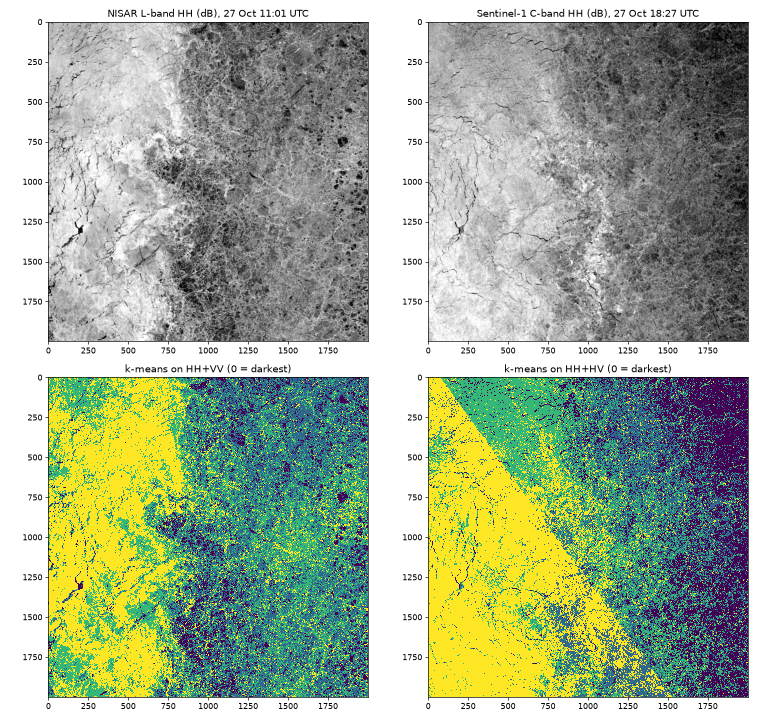
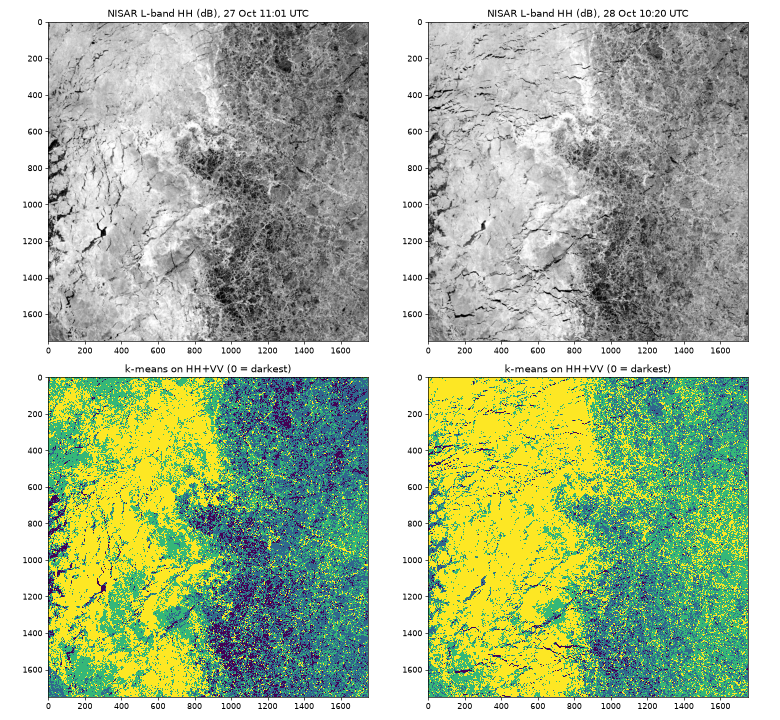
Chukchi run: NISAR only, similarity threshold 0.5
- Drop Sentinel-1 from run_chukchi.py: no S1 loading/warping, only the
  NISAR 27 -> 28 Oct tracking pair, NISAR-only ice detection (HH-VV rule),
  classification compares the two NISAR scenes aligned by the drift, and
  only NISAR scene records go to MongoDB.
- Raise min_similarity from 0.3 to 0.5 (176 arrows, 171 on ice,
  median 10.6 km/day).
- Ice-motion figure: one column; removed-arrow count on its own title line.
- docs/ice_tracking.md rewritten for NISAR only.

diff --git a/scripts/run_chukchi.py b/scripts/run_chukchi.py
@@ -1,4 +1,4 @@
-"""End-to-end run for the Chukchi Sea test area: load -> common grid -> ice detection -> track -> classify -> MongoDB.
+"""End-to-end run for the Chukchi Sea test area, NISAR only: load -> common grid -> ice detection -> track -> classify -> MongoDB.
 
 Run after scripts/download_scenes.py:   python scripts/run_chukchi.py
 Add --no-db to skip MongoDB. Writes figures to figures/chukchi_*.png. Tracking is described in docs/ice_tracking.md.
@@ -15,25 +15,20 @@ import numpy as np
 ROOT = Path(__file__).resolve().parents[1]
 sys.path.insert(0, str(ROOT))
 from scripts import mongo_store                                               # noqa: E402
-from scripts.asf_loader import ENL_EW_GRDM, load_asf_item                     # noqa: E402
 from scripts.classify import (dark_threshold, kmeans_classes, largest_clean_square, lee_filter, to_db,  # noqa: E402
                               water_from_copol_ratio)
 from scripts.download_scenes import SCENES, find                              # noqa: E402
 from scripts.ice_tracking import highpass, keep_on_ice, to_velocity, track                 # noqa: E402
 from scripts.nisar_loader import load_gcov                                    # noqa: E402
-from scripts.s1_geocode import sigma0_radar_geometry, warp_to_grid            # noqa: E402
 
 DATA, FIGS = ROOT / "data", ROOT / "figures"
 EPSG, SPACING = 3413, 80.0
 NISAR = [s for s in SCENES if s.startswith("NISAR")]
-S1 = [s for s in SCENES if s.startswith("S1")]
-# (from, to, source label). Sentinel-1 27 -> 29 Oct is left out: 48 h is too long, the ice pattern changes.
-PAIRS = [(NISAR[0], NISAR[1], "NISAR tracking"),
-         (S1[0], S1[1], "Sentinel-1 tracking"),
-         (NISAR[0], S1[1], "NISAR to Sentinel-1 tracking"),
-         (S1[1], NISAR[1], "Sentinel-1 to NISAR tracking")]
-TRACK = dict(patch=128, step=64, coarse=4, min_similarity=0.3)
-CLASSIFY = (NISAR[0], S1[1])       # same day (27 Oct), 7.4 h apart
+# (from, to, source label). Sentinel-1 scenes in SCENES are not used.
+PAIRS = [(NISAR[0], NISAR[1], "NISAR tracking")]
+TRACK = dict(patch=128, step=64, coarse=4, min_similarity=0.5)
+CLASSIFY = (NISAR[0], NISAR[1])    # the tracking pair, 23.3 h apart
+NISAR_ENL = 39.0
 
 
 def start_time(name: str) -> datetime:
@@ -77,50 +72,38 @@ def load_everything():
     nisar = {n: load_gcov(DATA / f"{n}.h5") for n in NISAR}
     x, y = common_grid(list(nisar.values()))
     power = {n: {p: on_grid(s, p, x, y) for p in s.power} for n, s in nisar.items()}
-    for name in S1:
-        item = load_asf_item(name, DATA)
-        power[name] = {p: warp_to_grid(*sigma0_radar_geometry(item, p), x, y, EPSG).astype("float64") for p in ("hh", "hv")}
     return power, x, y, {n: s.looks for n, s in nisar.items()}
 
 
 def ice_mask(name, bands, looks):
-    """Ice detection on one scene, before tracking: (ice, valid) bool arrays on the common grid.
+    """Ice detection on one NISAR scene, before tracking: (ice, valid) bool arrays on the common grid.
 
-    NISAR (HH+VV): open water where HH is more than 3 dB below VV, the rule verify_chukchi.py checks
-    against AMSR2. Sentinel-1 (HH+HV, no VV): darkest k-means class on HH+HV. That rule is NOT validated;
-    at C-band the dark class can also be smooth thin ice, so it may remove some ice as well as water.
+    Open water where HH is more than 3 dB below VV (after a 7x7 Lee filter), the rule verify_chukchi.py
+    checks against AMSR2.
     """
-    nisar = name.startswith("NISAR")
-    pols = ("hh", "vv") if nisar else ("hh", "hv")
-    valid = np.all([np.isfinite(bands[p]) for p in pols], axis=0)
-    db = {p: to_db(lee_filter(np.where(valid, bands[p], np.nanmedian(bands[p])),
-                              enl=looks[name][p] if nisar else 4 * ENL_EW_GRDM)) for p in pols}
-    if nisar:
-        water = water_from_copol_ratio(db["hh"], db["vv"])
-    else:
-        _, centres = kmeans_classes(db["hh"][valid][::50], db["hv"][valid][::50])
-        water = db["hh"] < dark_threshold(centres)
-    return valid & ~water, valid
+    valid = np.isfinite(bands["hh"]) & np.isfinite(bands["vv"])
+    db = {p: to_db(lee_filter(np.where(valid, bands[p], np.nanmedian(bands[p])), enl=looks[name][p])) for p in ("hh", "vv")}
+    return valid & ~water_from_copol_ratio(db["hh"], db["vv"]), valid
 
 
 def classify_pair(power, tracks):
-    """k-means on the same patch of ice in NISAR and in Sentinel-1 (moved back by the measured drift)."""
-    n_name, s_name = CLASSIFY
-    drift = tracks[(n_name, s_name)]
+    """k-means on the same patch of ice in both NISAR scenes (the later one moved back by the measured drift)."""
+    first, second = CLASSIFY
+    drift = tracks[(first, second)]
     d_row, d_col = int(round(np.median(drift["d_row"]))), int(round(np.median(drift["d_col"])))
-    nis = power[n_name]
-    s1 = {p: shift_back(v, d_row, d_col) for p, v in power[s_name].items()}
-    valid = np.all([np.isfinite(v) for v in (*nis.values(), *s1.values())], axis=0)
+    later = {p: shift_back(v, d_row, d_col) for p, v in power[second].items()}
+    valid = np.all([np.isfinite(v) for v in (*power[first].values(), *later.values())], axis=0)
     r, c, size = largest_clean_square(valid)
     win = (slice(r, r + size), slice(c, c + size))
     out = {}
-    for name, bands, chans, enl in ((n_name, nis, ("hh", "vv"), 39.0), (s_name, s1, ("hh", "hv"), 4 * ENL_EW_GRDM)):
-        db = [to_db(lee_filter(bands[p][win], enl=enl)) for p in chans]
+    for name, bands in ((first, power[first]), (second, later)):
+        chans = ("hh", "vv")
+        db = [to_db(lee_filter(bands[p][win], enl=NISAR_ENL)) for p in chans]
         labels, centres = kmeans_classes(*db)
         thr = dark_threshold(centres)
         out[name] = dict(db=db, labels=labels, centres=centres, threshold=thr, chans=chans,
                          shares=[float(np.mean(labels == i)) for i in range(4)], dark=float(np.mean(db[0] < thr)))
-    a, b = out[n_name]["db"][0], out[s_name]["db"][0]
+    a, b = out[first]["db"][0], out[second]["db"][0]
     quarter = (a < np.percentile(a, 25)), (b < np.percentile(b, 25))
     stats = dict(window=(r, c, size), drift_px=(d_row, d_col),
                  hh_correlation_80m=float(np.corrcoef(a.ravel(), b.ravel())[0, 1]),
@@ -158,7 +141,7 @@ def save_figures(power, x, y, runs, classes):
                           extent=extent, interpolation="nearest")
                 r = removed[(a, b)]
                 ax.plot(x[r["col"].astype(int)] / 1e3, y[r["row"].astype(int)] / 1e3, "kx", ms=5, mew=1.2)
-                removed_note = f", {len(r['row'])} removed (x)"
+                removed_note = f"\n{len(r['row'])} arrows removed (x)"
             vx, vy, speed = to_velocity(t["d_row"], t["d_col"], SPACING, hours_between(a, b))
             q = ax.quiver(x[t["col"].astype(int)] / 1e3, y[t["row"].astype(int)] / 1e3, vx, vy, speed, cmap="plasma",
                           norm=norm, angles="xy", scale_units="xy", scale=0.02, width=0.003)
@@ -171,7 +154,7 @@ def save_figures(power, x, y, runs, classes):
 
     fig, axes = plt.subplots(2, 2, figsize=(13, 12))
     for col, (name, c) in enumerate(classes.items()):
-        sensor = "NISAR L-band" if name.startswith("NISAR") else "Sentinel-1 C-band"
+        sensor = "NISAR L-band"
         axes[0, col].imshow(c["db"][0], cmap="gray", vmin=np.percentile(c["db"][0], 2), vmax=np.percentile(c["db"][0], 98))
         axes[0, col].set_title(f"{sensor} HH (dB), {start_time(name):%d %b %H:%M} UTC")
         axes[1, col].imshow(c["labels"], cmap="viridis", interpolation="nearest")
@@ -182,18 +165,13 @@ def save_figures(power, x, y, runs, classes):
 def store(db, x, y, tracks, classes, stats):
     products = {p.properties["sceneName"]: p for p in find()}
     scenes = []
-    for name in SCENES:
-        nisar = name.startswith("NISAR")
-        scenes.append(mongo_store.scene_doc(
-            name, "NISAR" if nisar else "Sentinel-1", "GCOV" if nisar else "GRD", start_time(name),
-            DATA / (f"{name}.h5" if nisar else f"{name}.SAFE"), products[name].geometry,
-            ["HH", "VV"] if nisar else ["HH", "HV"], "L" if nisar else "C",
-            f"EPSG:{EPSG}" if nisar else "radar geometry (ground range), tie points in EPSG:4326"))
+    for name in NISAR:
+        scenes.append(mongo_store.scene_doc(name, "NISAR", "GCOV", start_time(name), DATA / f"{name}.h5",
+                                            products[name].geometry, ["HH", "VV"], "L", f"EPSG:{EPSG}"))
     for doc in scenes:
         db.scenes.replace_one({"name": doc["name"]}, doc, upsert=True)
     for name, c in classes.items():
-        note = ("Dark class = thin ice / leads, not confirmed open water. "
-                + ("Thermal noise removed." if name.startswith("NISAR") else "Thermal noise NOT removed; HV shows a sub-swath step."))
+        note = "Dark class = thin ice / leads, not confirmed open water. Thermal noise removed."
         doc = mongo_store.result_doc(name, "k-means k=4, then HH threshold between the two darkest centres",
                                      c["chans"], c["shares"], c["threshold"], c["dark"], stats["window"], note)
         db.results.replace_one({"scene": name, "method": doc["method"]}, doc, upsert=True)

diff --git a/docs/ice_tracking.md b/docs/ice_tracking.md
@@ -1,7 +1,7 @@
 # How the ice tracking works
 
 Sea ice drifts with wind and ocean currents, often 5-20 km per day. To measure that drift, we take two
-radar images of the same area a few hours to a day apart, find where each piece of ice moved, and divide
+NISAR radar images of the same area about a day apart, find where each piece of ice moved, and divide
 the shift by the time between the images.
 
 Code: [`scripts/ice_tracking.py`](../scripts/ice_tracking.py) (the algorithm) and
@@ -10,30 +10,31 @@ Tests: [`tests/test_ice_tracking.py`](../tests/test_ice_tracking.py).
 
 ```mermaid
 flowchart LR
-    A["Two scenes<br/>NISAR / Sentinel-1"] --> B["Common map grid<br/>80 m, EPSG:3413"]
-    B --> C["Texture image<br/>dB, high-pass"]
+    A["Two NISAR scenes<br/>27 and 28 Oct"] --> B["Common map grid<br/>80 m, EPSG:3413"]
+    B --> C["Texture image<br/>HH in dB, high-pass"]
     C --> D["Patch matching<br/>coarse + fine"]
-    D --> E["Similarity check<br/>≥ 0.3"]
+    D --> E["Similarity check<br/>≥ 0.5"]
     B --> M["Ice / water detection<br/>on each image"]
     E --> F["Keep arrows that start<br/>and end on ice"]
     M --> F
     F --> G["Velocity<br/>km/day"]
 ```
 
+Only NISAR (L-band, HH + VV) is used. The Sentinel-1 scenes that `download_scenes.py` also fetches are
+not read by `run_chukchi.py`.
+
 ## 1. Put both images on one grid
 
 Tracking compares pixels, so both images must cover the same ground pixel for pixel. NISAR GCOV
-products are already on a map grid (polar stereographic, EPSG:3413, 80 m). Sentinel-1 GRD images are in
-radar geometry, so they are calibrated to σ⁰ and warped onto the NISAR grid first
-([`scripts/s1_geocode.py`](../scripts/s1_geocode.py)). The grid is the area all NISAR scenes share.
+products are already on a map grid (polar stereographic, EPSG:3413, 80 m), and the two scenes' grids
+are aligned, so we only cut both to the area they share (`common_grid()`, `on_grid()`).
 
 ## 2. Make a texture image
 
-Radar brightness changes slowly across a scene (viewing angle, sensor differences), and NISAR (L-band)
-and Sentinel-1 (C-band) differ in overall brightness. Those differences are not ice motion and would
-confuse the matching. So each HH image is:
+Radar brightness changes slowly across a scene (mostly with the viewing angle, which differs between
+the two passes). Those changes are not ice motion and would confuse the matching. So each HH image is:
 
-1. converted to dB,
+1. converted to dB (`to_db()` in `classify.py`),
 2. high-pass filtered: a Gaussian blur (σ = 25 pixels = 2 km) is subtracted, which leaves only the
    small-scale pattern of floes, ridges and leads (`texture()` in `run_chukchi.py`, `highpass()` in
    `ice_tracking.py`).
@@ -44,7 +45,8 @@ confuse the matching. So each HH image is:
     blurred   ≈  trend
     original − blurred  ≈  detail
 
-Pixels with no data stay NaN, and any patch that touches them is skipped.
+Pixels with no data are filled with the median before blurring and set back to NaN afterwards; any
+patch that touches them is skipped.
 
 ## 3. Match patches (`track()`)
 
@@ -66,14 +68,14 @@ Total shift = rough + fine. The arrow starts at the patch centre in image 1.
 
 Phase correlation always returns *some* shift, even for two unrelated patches (open water, changed ice,
 noise). After shifting, we compute the normalised correlation between the image 1 patch and the image 2
-patch at the found position (0 = unrelated, 1 = identical). Arrows below **0.3** are dropped
-(`min_similarity`; 0.5 is the function default, `run_chukchi.py` uses 0.3 because L-band and C-band
-images of the same ice look less alike).
+patch at the found position (0 = unrelated, 1 = identical). Arrows below **0.5** are dropped
+(`min_similarity` in `TRACK`, `run_chukchi.py`). Lowering it (e.g. to 0.3) keeps more arrows at the
+cost of more wrong matches: on the 27-28 Oct pair, 0.3 gives 735 arrows and 0.5 gives 176.
 
 ## 5. Keep only arrows on ice (`keep_on_ice()`)
 
-The tracking itself always runs on the radar texture. Afterwards, an ice / open-water detection is run
-on **each image separately**, and an arrow is removed if:
+The tracking itself runs on the radar texture. Afterwards, an ice / open-water detection is run on
+**each image separately** (`ice_mask()` in `run_chukchi.py`), and an arrow is removed if:
 
 - its **start** (patch centre) is water in the **image 1** ice mask, or
 - its **end** (start + shift, rounded to the nearest pixel) is water in the **image 2** ice mask, or
@@ -82,38 +84,38 @@ on **each image separately**, and an arrow is removed if:
 Why: motion "measured" over open water is not ice drift; it comes from waves or wind patterns, and an
 arrow that lands in water most likely matched the wrong thing.
 
-The detection (`ice_mask()` in `run_chukchi.py`) depends on the sensor:
-
-| Sensor | Channels | Water rule | Status |
-|---|---|---|---|
-| NISAR (L-band) | HH + VV | HH more than 3 dB below VV, after a 7×7 Lee speckle filter | Checked against AMSR2 ice concentration (`verify_chukchi.py`: 89-99 % balanced agreement) |
-| Sentinel-1 (C-band) | HH + HV | darkest of 4 k-means classes on HH + HV | **Not validated.** Without incidence-angle correction it also flags ice at steep viewing angles (the dark band on the east side of the Sentinel-1 swaths) |
+**Water rule:** after a 7 × 7 Lee speckle filter, a pixel is open water where HH is more than 3 dB below
+VV (`water_from_copol_ratio()` in `classify.py`). Calm water reflects VV much more strongly than HH;
+sea ice reflects both about equally. `verify_chukchi.py` checks this rule against AMSR2 ice
+concentration (89-99 % balanced agreement on four NISAR scenes).
 
 The rule looks at one pixel at each end. The masks have isolated single "water" pixels from speckle, so a
-few good arrows are removed by chance. On the 27-28 Oct scenes (almost all ice) the filter removes 8-12
-arrows per pair and changes the median drift by less than 0.1 km/day.
+few good arrows can be removed by chance. On the 27-28 Oct pair (≈ 99 % ice) the filter removes 5 of 176
+arrows and changes the median drift by less than 0.1 km/day.
 
 ## 6. Convert to velocity (`to_velocity()`)
 
 Shift in pixels × 80 m ÷ time between the two images = velocity. Rows grow downwards in the image but
 northwards on the map, so the row direction is flipped. Speed is reported in km/day.
 
-## Pairs in the Chukchi run
+## The Chukchi run
 
-| Pair | Gap | What it tests |
-|---|---|---|
-| NISAR → NISAR (27 → 28 Oct) | 23.3 h | main result, same sensor |
-| Sentinel-1 → Sentinel-1 (26 → 27 Oct) | 24.7 h | same sensor, C-band |
-| NISAR → Sentinel-1 (27 Oct) | 7.4 h | cross-sensor |
-| Sentinel-1 → NISAR (27 → 28 Oct) | 15.9 h | cross-sensor |
-
-Sentinel-1 27 → 29 Oct is left out: after 48 h the ice pattern has changed too much to match.
+| | |
+|---|---|
+| Image 1 | NISAR GCOV, 27 Oct 2026 11:01 UTC (ascending) |
+| Image 2 | NISAR GCOV, 28 Oct 2026 10:20 UTC (descending) |
+| Gap | 23.3 h |
+| Area | Chukchi Borderland pack ice, ≈ 75.4-77.5° N, 160-170° W |
+| Result | 171 arrows on ice, median 10.6 km/day |
 
 ## Output
 
-`figures/chukchi_ice_motion.png`: one column per pair. Top row: all arrows on the HH image. Bottom row:
-arrows kept on ice, image 1's detected water in blue, removed arrows marked with a black ×. Both rows of a
-column share one colour scale (km/day).
+`figures/chukchi_ice_motion.png`: top, all arrows on the 27 Oct HH image; bottom, the arrows kept on
+ice, with the detected water in blue and removed arrows marked with a black ×. Both panels share one
+colour scale (km/day).
+
+`figures/chukchi_classes.png`: k-means classes (HH + VV) on the same window in both scenes, with the
+28 Oct scene moved back by the median drift so the same ice is compared.
 
 With MongoDB enabled, the kept arrows are stored in the `ice_motion` collection
 ([`scripts/mongo_store.py`](../scripts/mongo_store.py)).
@@ -128,9 +130,10 @@ python -m pytest tests/test_ice_tracking.py
 
 ## Limitations
 
-- **Cross-sensor pairs read fast.** NISAR → Sentinel-1 over 7.4 h gives ≈ 19 km/day, about twice the
-  NISAR → NISAR rate. A small geolocation offset between the sensors divided by a short gap inflates the
-  speed (3 km / 7.4 h ≈ 10 km/day); this is not corrected.
-- **Sentinel-1 → Sentinel-1 finds few matches** (≈ 30 arrows), mostly near the swath edge.
+- **One pair.** Only two overlapping NISAR scenes cover this area, so there is no independent check of
+  the drift (e.g. buoys or a second pair).
+- **Ascending vs descending.** The two passes look at the ice from opposite sides, so the texture
+  differs; this is one reason only 176 patches pass the 0.5 similarity check.
 - **One shift per patch.** Rotation and deformation inside a 10 km patch are not measured.
-- **The Sentinel-1 water mask is not validated** (see section 5).
+- **The water mask is tested on little open water here.** The scenes are ≈ 99 % ice; the filter has
+  most effect near an ice edge.
